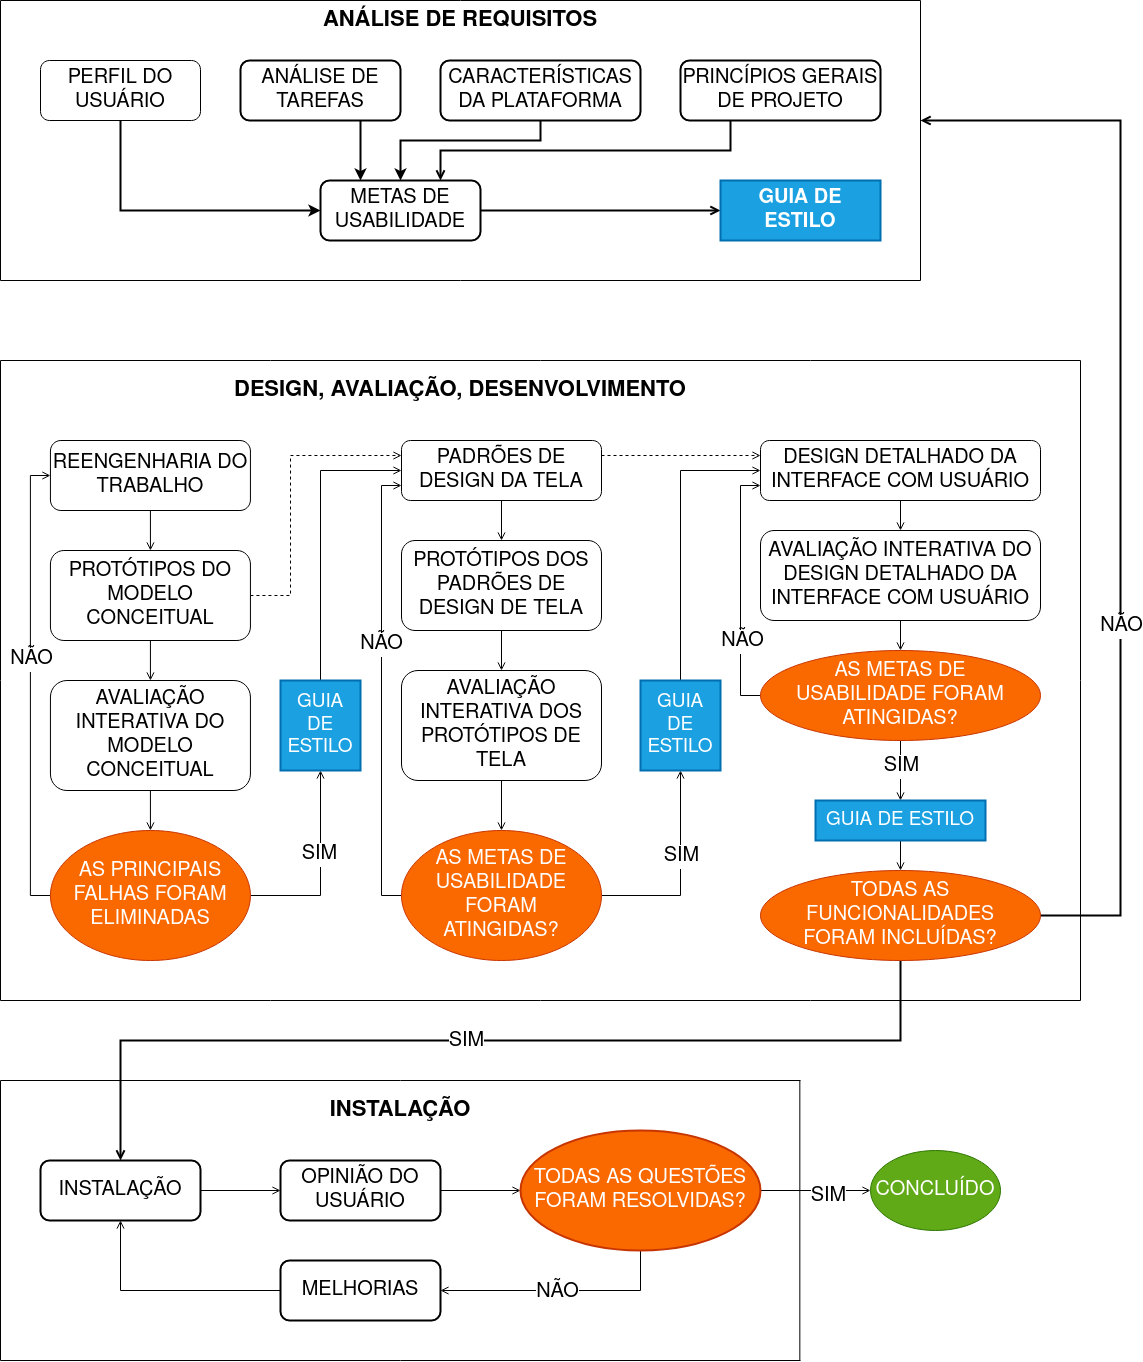
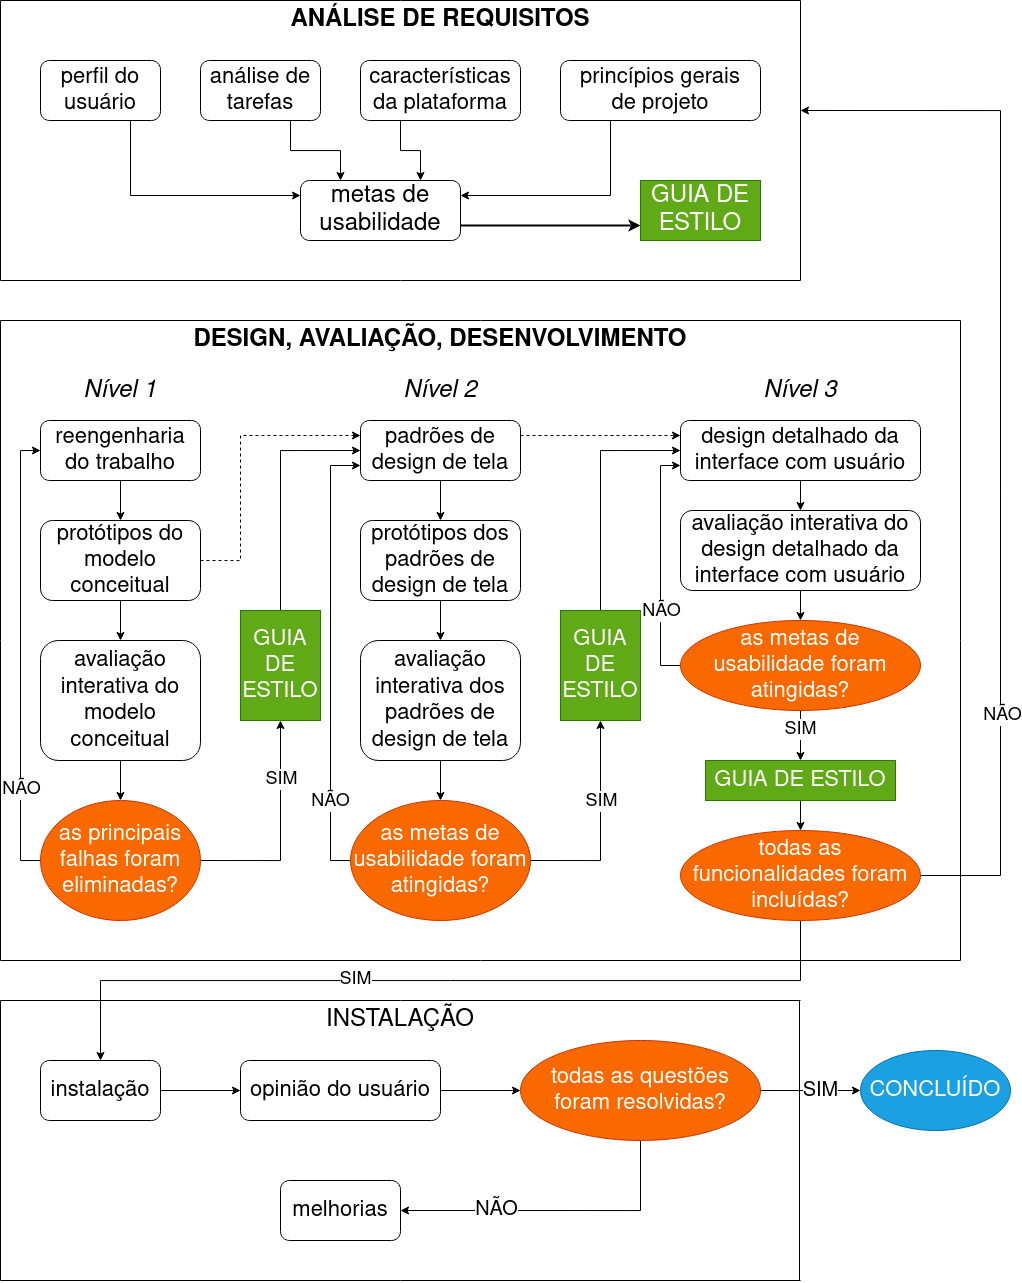
Adiciona informações ao cronograma, refatora imagem do processo de design e adiciona vídeo na página da 5 apresentação

diff --git a/docs/planejamento/cronograma.md b/docs/planejamento/cronograma.md
@@ -74,24 +74,29 @@ De 16/10 até 29/10
 ## 5ª entrega - Planejamento e avaliação dos StoryBoards e protótipos de papel
 De 30/10 até 12/11
 
-|               Tarefa                     |  Participante(s)    |  Revisado por      |Entrega|Entrega prevista|
-|:----------------------------------------:|:-------------------:|:------------------:|:-----:|:--------------:|
-|Avaliação StoryBoard 1                    |Hugo Aragão          |                    |       |     11/11      |
-|Avaliação StoryBoard 2                    |André Eduardo        |                    |       |     11/11      |
-|Avaliação StoryBoard 3                    |Damarcones Porto     |                    |       |     11/11      |
-|Avaliação StoryBoard 4                    |Bruna Almeida        |                    |       |     11/11      |
-|Avaliação StoryBoard 5                    |Amanda Bezerra       |                    |       |     11/11      |
-|Planejamento e avaliação protótipo 1      |Hugo Aragão          |                    |       |     11/11      |
-|Planejamento e avaliação protótipo 2      |André Eduardo        |                    |       |     11/11      |
-|Planejamento e avaliação protótipo 3      |Damarcones Porto     |                    |       |     11/11      |
-|Planejamento e avaliação protótipo 4      |Bruna Almeida        |                    |       |     11/11      |
-|Planejamento e avaliação protótipo 5      |Amanda Bezerra       |                    |       |     11/11      |
-|Refatoração - Metas de usabilidade        |Amanda Bezerra       |                    |       |     11/11      |
-|Refatoração - Princípios e diretrizes     |André Eduardo        |                    |       |     11/11      |
-|Refatoração - Planejamento                |Bruna e Damarcones   |                    |       |     11/11      |
-|Refatoração - Padronização dos documentos |Todos os integrantes |                    |       |     11/11      |
-|Gravar apresentação                       |Todos os integrantes |       ------       |       |     11/11      |
-|Editar vídeo da apresentação              |Hugo Aragão          |Todos os integrantes|       |     11/11      |
+|               Tarefa                     |  Participante(s)    |Entrega|Entrega prevista|
+|:----------------------------------------:|:-------------------:|:-----:|:--------------:|
+|Avaliação StoryBoard 1                    |Hugo Aragão          | 12/11 |     11/11      |
+|Avaliação StoryBoard 2                    |André Eduardo        | 12/11 |     11/11      |
+|Avaliação StoryBoard 3                    |Damarcones Porto     | 12/11 |     11/11      |
+|Avaliação StoryBoard 4                    |Bruna Almeida        | 12/11 |     11/11      |
+|Avaliação StoryBoard 5                    |Amanda Bezerra       | 12/11 |     11/11      |
+|Protótipo de papel 1                      |Hugo Aragão          | 12/11 |     11/11      |
+|Protótipo de papel 2                      |André Eduardo        | 12/11 |     11/11      |
+|Protótipo de papel 3                      |Damarcones Porto     | 12/11 |     11/11      |
+|Protótipo de papel 4                      |Bruna Almeida        | 12/11 |     11/11      |
+|Protótipo de papel 5                      |Amanda Bezerra       | 12/11 |     11/11      |
+|Planejamento e avaliação protótipo 1      |Hugo Aragão          | 12/11 |     11/11      |
+|Planejamento e avaliação protótipo 2      |André Eduardo        | 12/11 |     11/11      |
+|Planejamento e avaliação protótipo 3      |Damarcones Porto     | 12/11 |     11/11      |
+|Planejamento e avaliação protótipo 4      |Bruna Almeida        | 12/11 |     11/11      |
+|Planejamento e avaliação protótipo 5      |Amanda Bezerra       | 12/11 |     11/11      |
+|Refatoração - Metas de usabilidade        |Amanda Bezerra       |-------|     11/11      |
+|Refatoração - Princípios e diretrizes     |André Eduardo        |-------|     11/11      |
+|Refatoração - Planejamento                |Bruna e Damarcones   | 11/11 |     11/11      |
+|Refatoração - Padronização dos documentos |Todos os integrantes |-------|     11/11      |
+|Gravar apresentação                       |Todos os integrantes | 12/11 |     11/11      |
+|Editar vídeo da apresentação              |Hugo Aragão          | 12/11 |     11/11      |
 
 <br> </br>
 

diff --git a/docs/apresentacoes/apresentacao-12-11.md b/docs/apresentacoes/apresentacao-12-11.md
@@ -5,7 +5,7 @@
 
 ## Vídeo da apresentação
 
-<iframe width="700" height="400" src="http://www.youtube.com/embed/EjyV5dt015A" frameborder="0"></iframe>
+<iframe width="700" height="400" src="http://www.youtube.com/embed/wmE4ktpGZPM" frameborder="0"></iframe>
 
 ## Slides da apresentação
 
